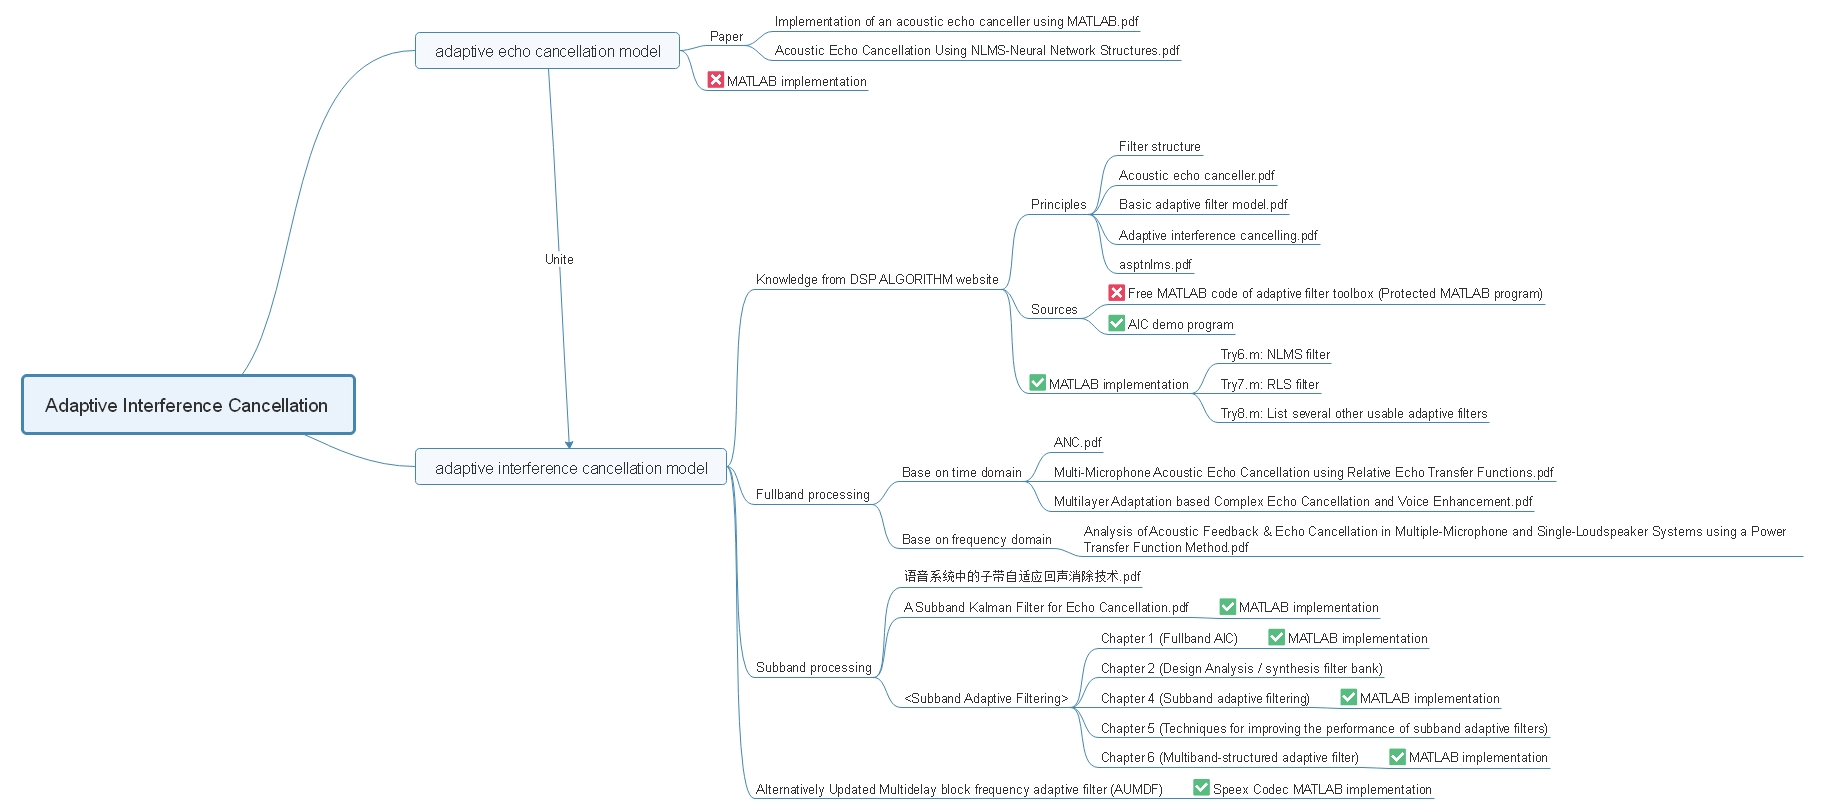
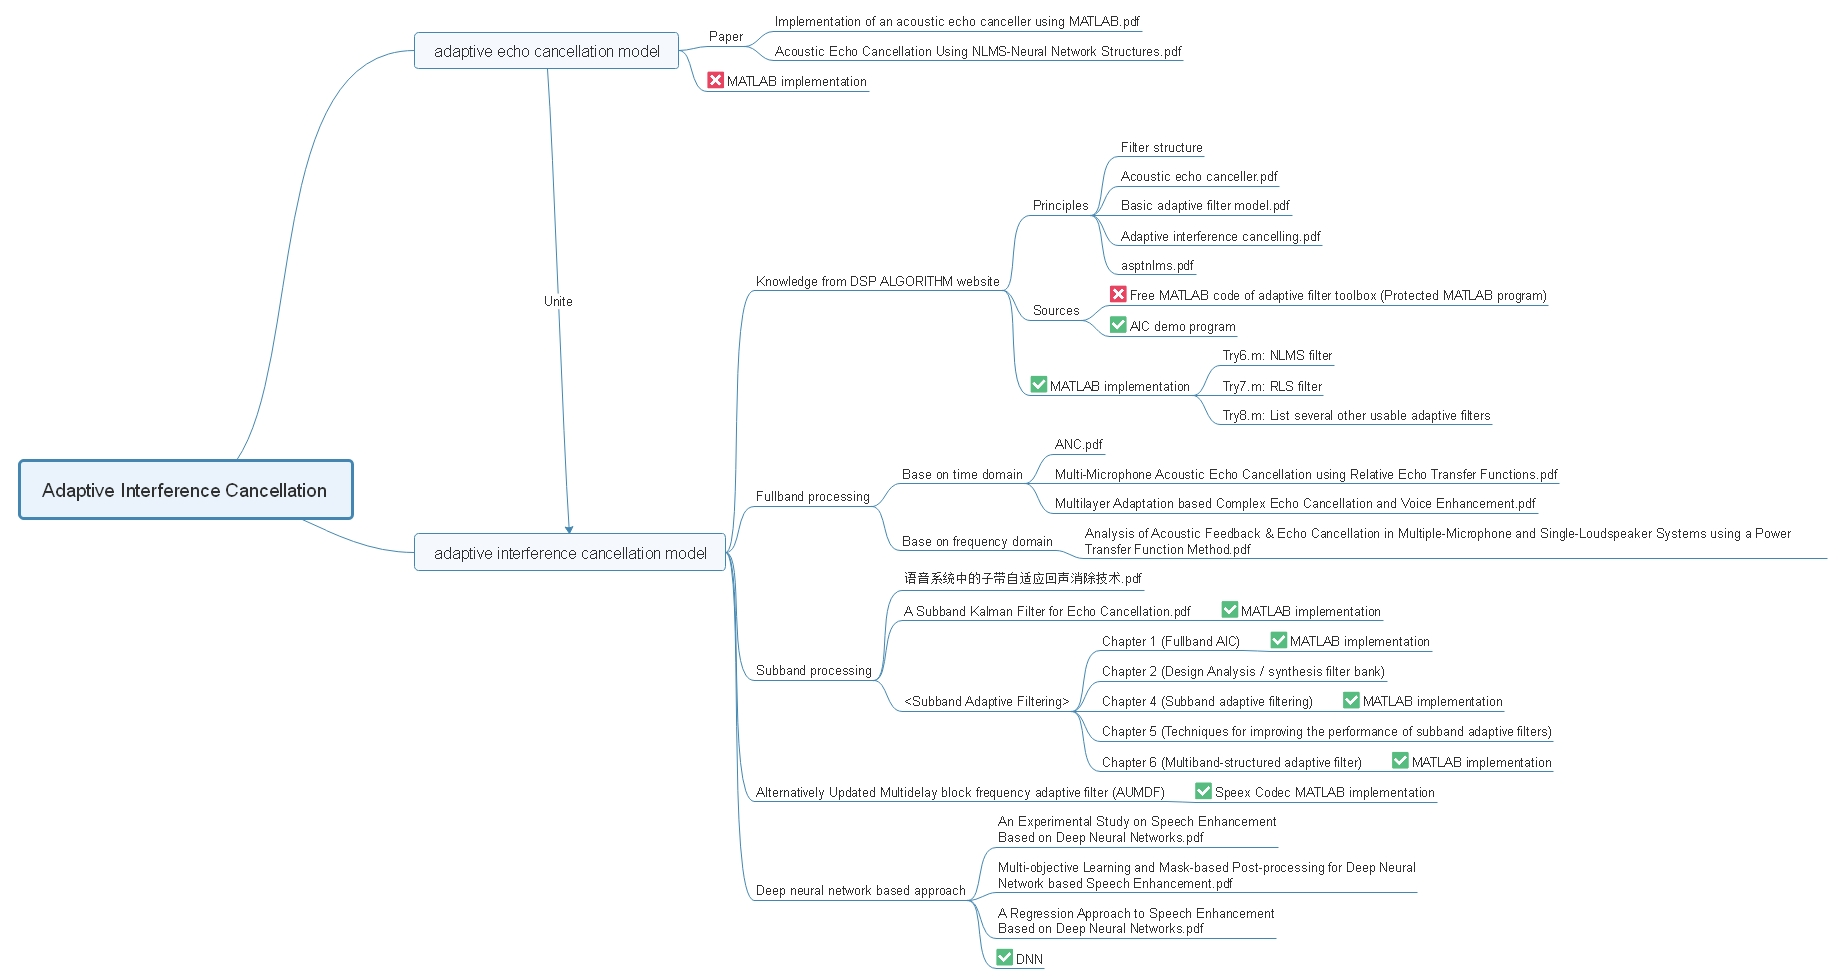
2018/8/15

diff --git a/Daily Logs/README.md b/Daily Logs/README.md
@@ -76,3 +76,27 @@
 * Comparing the spectrograms of the outputs from AIC programs of *Speex*, SAF and MSAF.
 ## 2018/8/6
 * Summarize the work in previous month and synchronize them to GitHub repository.
+## 2018/8/7
+* Read a paper [*An Improved Multiband-Structured Subband Adaptive Filter Algorithm*](https://ieeexplore.ieee.org/document/6248164/) and try to implement it in MATLAB.
+* Learn 1.1 and 1.2 in [*C++ Tutorial*](https://www.cprogramming.com/tutorial/c++-tutorial.html).
+## 2018/8/8
+* Read a paper [*Variable Step-Size Matrix for the Improved
+Multiband-Structured Subband Adaptive Filter*](http://english.cas.cn/newsroom/research_news/201612/P020161222309329630632.pdf) and try to implement it in MATLAB.
+* Learn 1.3 and 1.4 in [*C++ Tutorial*](https://www.cprogramming.com/tutorial/c++-tutorial.html).
+## 2018/8/9
+* Learn 1.5 in [*C++ Tutorial*](https://www.cprogramming.com/tutorial/c++-tutorial.html).
+* Listen to an academic lecture given by Prof. Chin-Hui Lee named as *A Machine Learning Approach to Speech Signal Preprocessing*.
+## 2018/8/10
+* Learn 2.1 and 2.2 in [*C++ Tutorial*](https://www.cprogramming.com/tutorial/c++-tutorial.html).
+* Implement the deep neural network mentioned in the lecture in yesterday to my practial scenario.
+## 2018/8/13
+* Learn 2.3 in [*C++ Tutorial*](https://www.cprogramming.com/tutorial/c++-tutorial.html).
+* Test the DNN with data from another colleague.
+* Summarize the work done in last week.
+## 2018/8/14
+* Learn 2.4 in [*C++ Tutorial*](https://www.cprogramming.com/tutorial/c++-tutorial.html).
+* Discuss graduate education issues with the internship mentor.
+## 2018/8/15
+* Learn 3.1 in [*C++ Tutorial*](https://www.cprogramming.com/tutorial/c++-tutorial.html).
+* Read a paper [*An Experimental Study on Speech Enhancement
+Based on Deep Neural Networks*](https://github.com/yongxuUSTC/DNN-Speech-enhancement-demo-tool/blob/master/Yong_SPL_SEDNN_2013.pdf)
